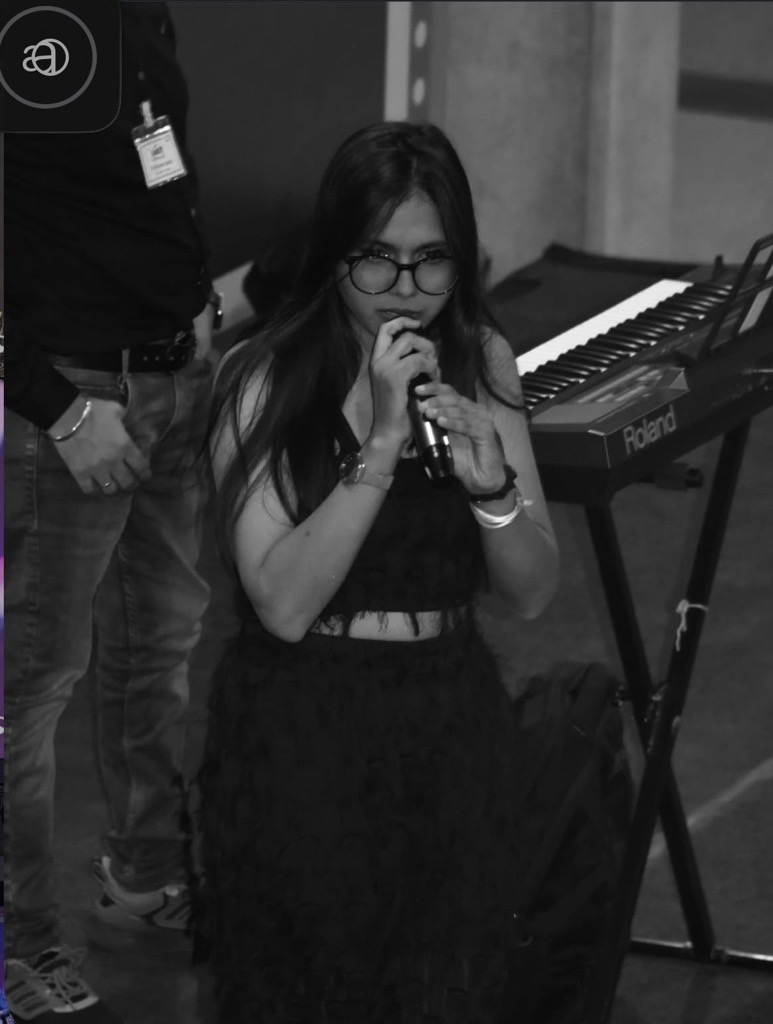
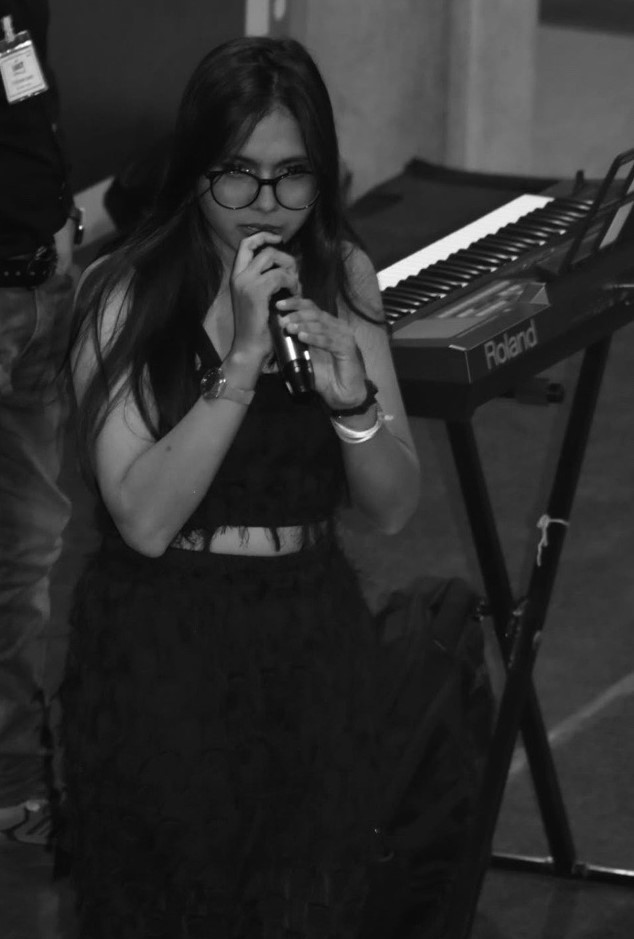
updated photos

diff --git a/src/app/app.component.html b/src/app/app.component.html
@@ -305,7 +305,7 @@
           {{ genre.icon }}
         </div>
 
-        <h3>
+        <h3 style="color: #ffffff;">
           {{ genre.title }}
         </h3>
 
@@ -399,7 +399,7 @@
           Watch our performances on YouTube
         </p>
 
-        <button
+        <!-- <button
           class="youtube-button"
           (click)="openYouTube()">
 
@@ -408,7 +408,7 @@
   </svg>
    <span class="padding-top:10px;">Visit Our YouTube Channel</span>
 
-        </button>
+        </button> -->
 
       </div>
 

diff --git a/src/app/app.component.ts b/src/app/app.component.ts
@@ -19,7 +19,7 @@ export class AppComponent {
   {
     name: 'Antriksh',
     role: 'Vocalist And Guitarist',
-    image: 'assets/antriksh.jpeg'
+    image: 'assets/antriksh.png'
   },
   {
     name: 'Nidhi',
